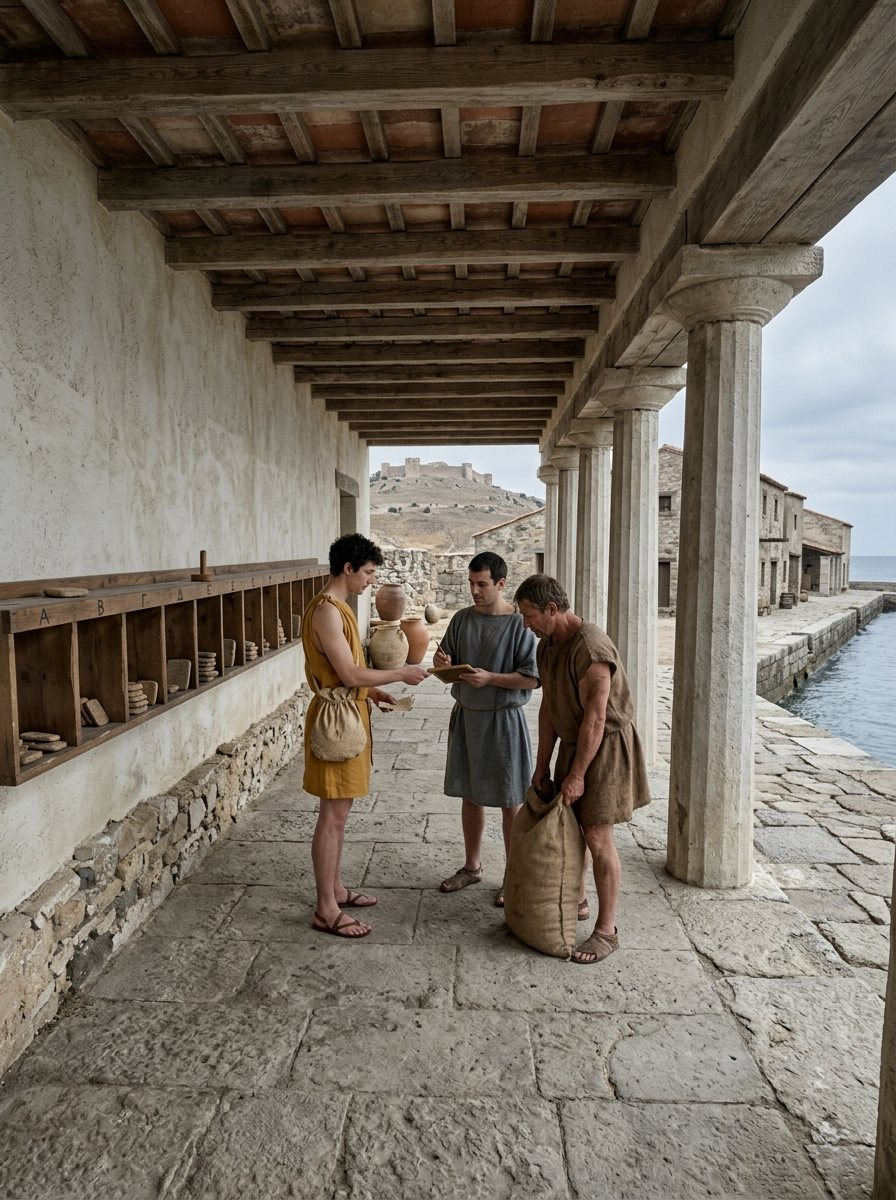
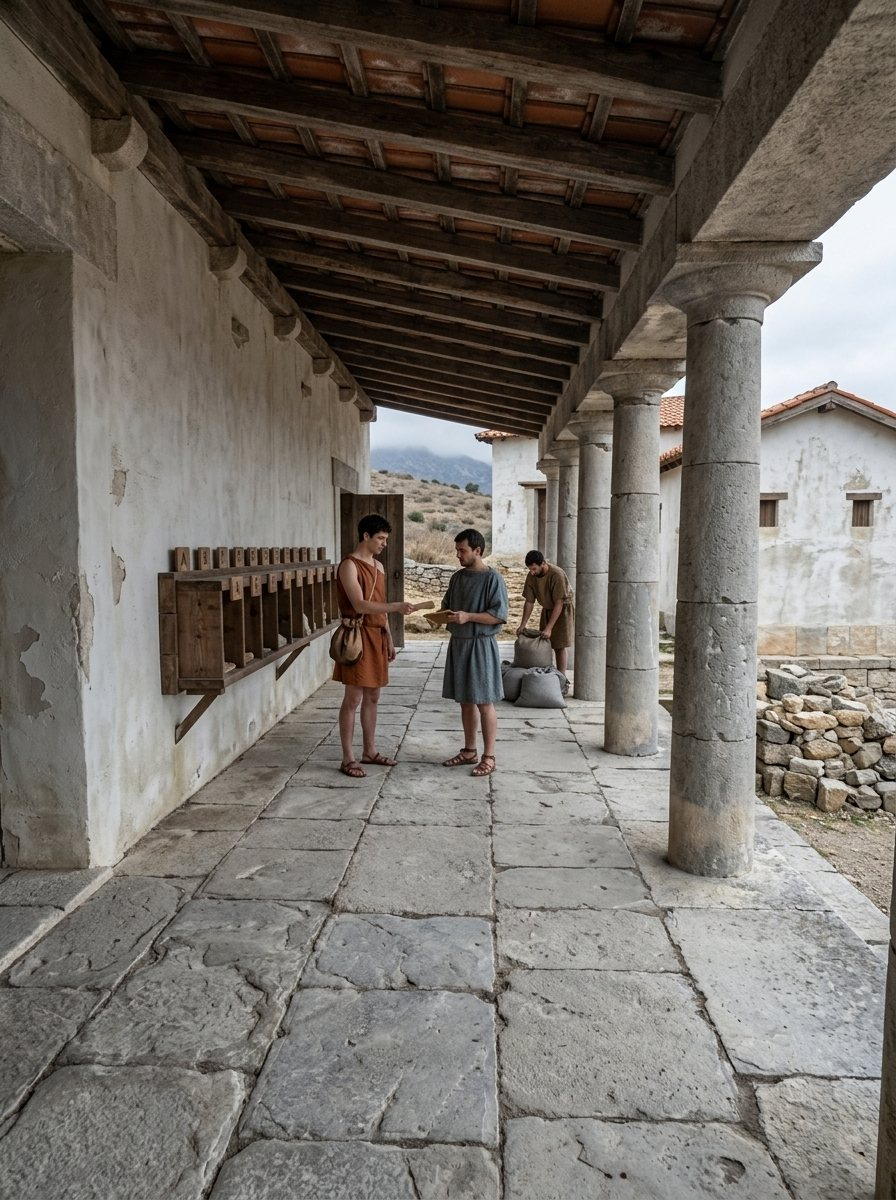
Ordering Without Clocks (cover, t01, t03) and Many Copies, Acting as One (cover, b08): photoreal scenes regenerated from the fully modelled house (Gemini API, nano banana 2)
Claude-Session: https://claude.ai/code/session_01YEoRcgSgrPNbMAvnxGtMh5

diff --git a/books/many-copies-acting-as-one/index.html b/books/many-copies-acting-as-one/index.html
@@ -312,7 +312,7 @@ sup.xref a{color:var(--aegean-d);text-decoration:none;font-weight:700}
     </div>
     <div class="pop" data-auto>
       <div class="leaf">
-        <div class="photo tilt-r" data-depth="14"><img src="img/cover.jpg" alt="Under the portico of a trading house on a quay, a man in an ochre tunic holds out a slip to a man in a grey-blue tunic who holds a wax tablet, while a third man in brown stands by a grain sack; a wall board of pigeonholes holding clay tablets runs along the wall, with the harbour and a ruined hilltop beyond"></div>
+        <div class="photo tilt-r" data-depth="14"><img src="img/cover.jpg" alt="Under the portico of a trading house, a messenger in an ochre tunic holds out a slip to a clerk in a grey-blue tunic, while a loader in brown bends over grain sacks; a wooden board of slots hangs on the wall beside them, and plain stone columns run along the paved floor"></div>
         <div class="fold-shadow"></div>
       </div>
     </div>
